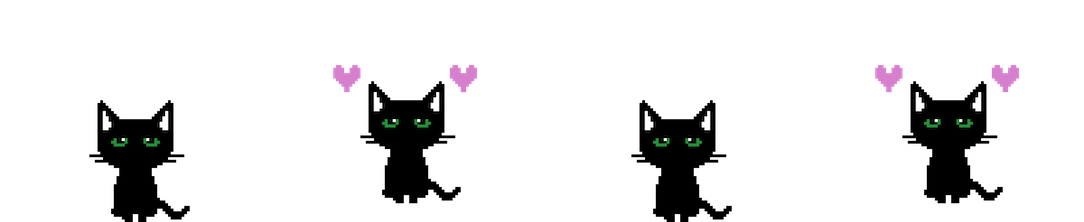
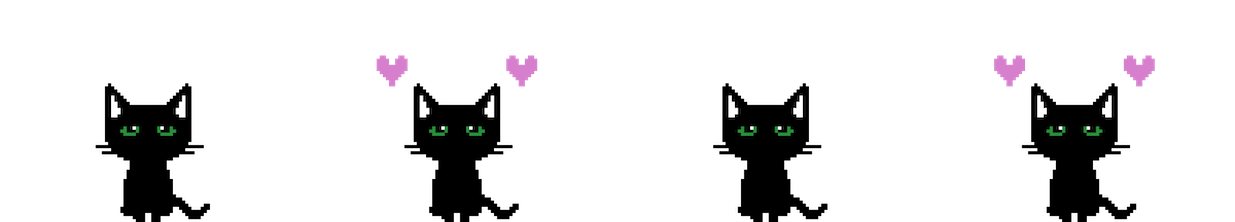
adjust images for animation

diff --git a/src/components/Game.jsx b/src/components/Game.jsx
@@ -33,7 +33,18 @@ function Game({ setGameStarted, action, setAction, gameOver, setGameOver }) {
     }, 6000);
   }
 
-  function cleanPoop() {}
+  function cleanPoop() {
+    setAction(null);
+    setDieTime(null);
+    setStatus('Cleaned');
+    setAttentionTime(getNextAttentionTime(clock));
+    setHungerTime(getNextHungerTime(clock));
+    setPoopTime(getNextPoopTime(clock));
+    setSleepTime(getNextSleepTime(clock));
+    setTimeout(() => {
+      setStatus('Idling');
+    }, 4000);
+  }
 
   function giveLove() {
     setAction(null);
@@ -64,10 +75,15 @@ function Game({ setGameStarted, action, setAction, gameOver, setGameOver }) {
           setStatus('Attention');
           setDieTime(getNextDieTime(clock));
         }
+        if (clock === poopTime) {
+          setStatus('Pooping');
+          setDieTime(getNextDieTime(clock));
+        }
       }
       if (clock === dieTime) {
         setStatus('Dead');
       }
+
       if (action === 'feed' && status === 'Hungry') {
         feedCat();
       }

diff --git a/src/stylesheets/Cat.scss b/src/stylesheets/Cat.scss
@@ -16,12 +16,43 @@
 }
 
 .catPooping {
+  background-image: url(../assets/cat/CatPoopingTest.png);
+  background-repeat: no-repeat;
+  width: 310px;
+  height: 225px;
+  animation: pooping 4s steps(6) infinite;
+}
+
+@keyframes pooping {
+  from {
+    background-position: 0;
+  }
+  to {
+    background-position: -1861px;
+  }
+}
+
+.catClean {
+  background-image: url(../assets/cat/CatCleanTest.png);
+  background-repeat: no-repeat;
+  width: 308px;
+  height: 225px;
+  animation: clean 4s steps(5);
+}
+
+@keyframes clean {
+  from {
+    background-position: 0;
+  }
+  to {
+    background-position: -1542px;
+  }
 }
 
 .catCelebrating {
   background-image: url(../assets/cat/CatCelebrating.png);
   background-repeat: no-repeat;
-  width: 271px;
+  width: 309px;
   height: 225px;
   animation: celebrating 4s steps(4);
 }
@@ -31,7 +62,7 @@
     background-position: 0;
   }
   to {
-    background-position: -1084px;
+    background-position: -1235px;
   }
 }
 

diff --git a/src/components/Cat.jsx b/src/components/Cat.jsx
@@ -24,12 +24,13 @@ function Cat({ status }) {
         return setCatClass('catDied');
       case 'Attention':
         return setCatClass('catSad');
+      case 'Cleaned':
+        return setCatClass('catClean');
       default:
         return setCatClass('catIdle');
     }
   }, [status]);
 
-  console.log(status);
   return (
     <div>
       <div className={catClass}></div>
